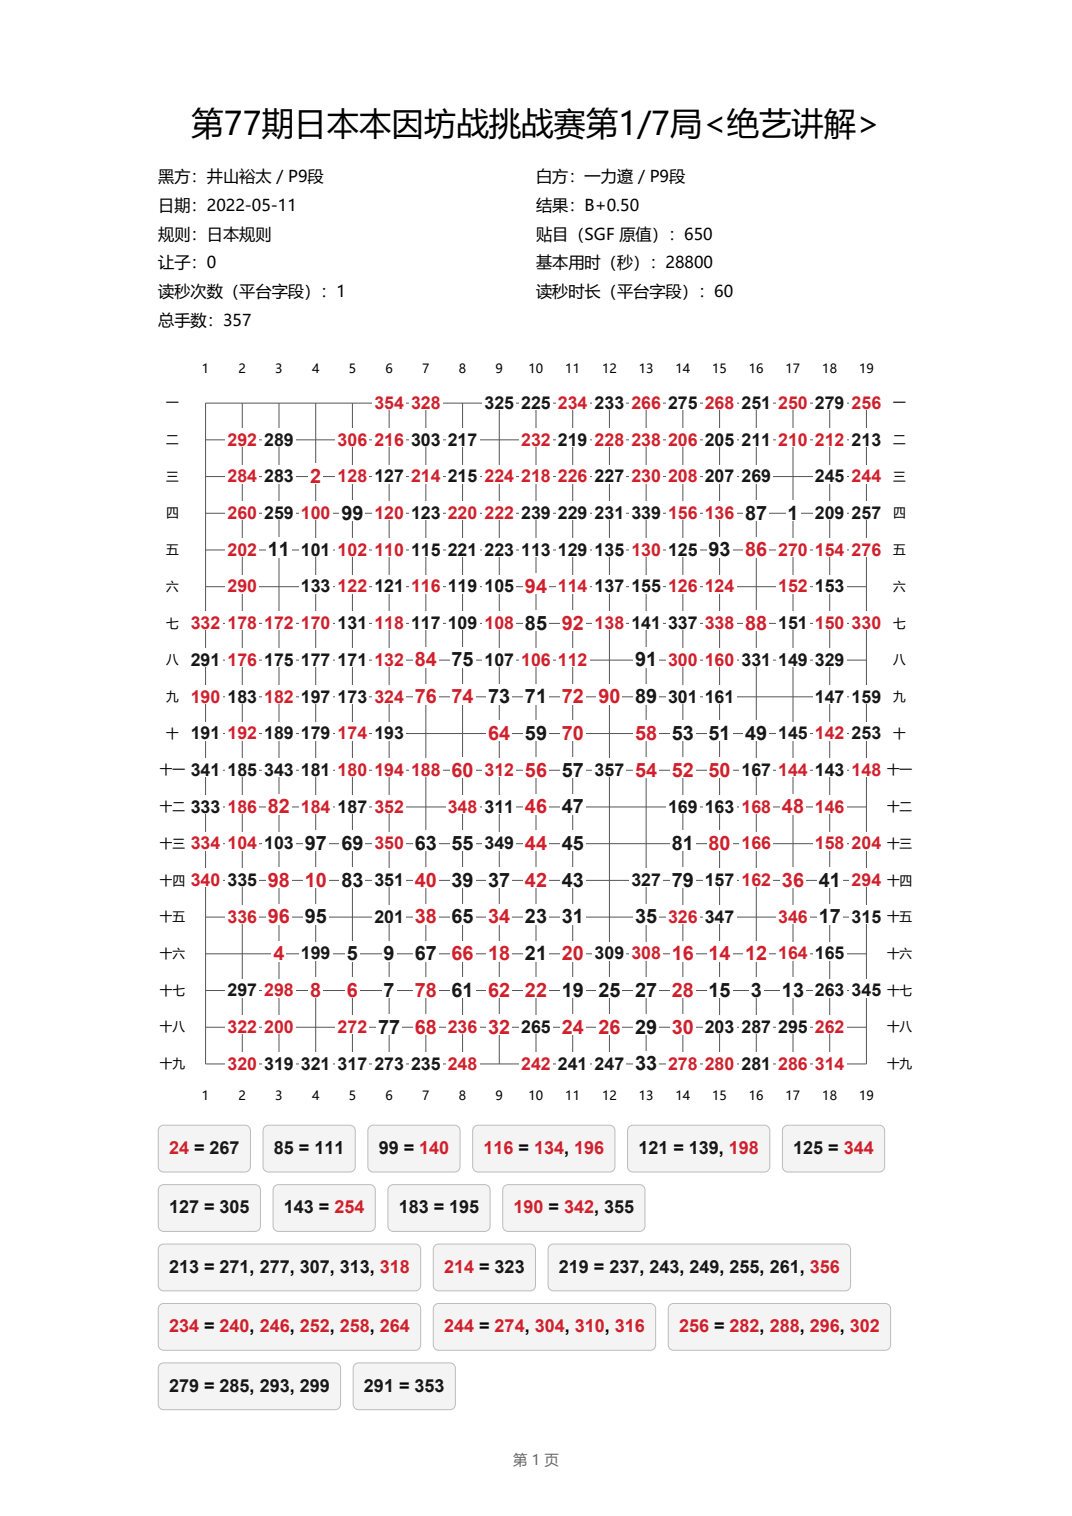
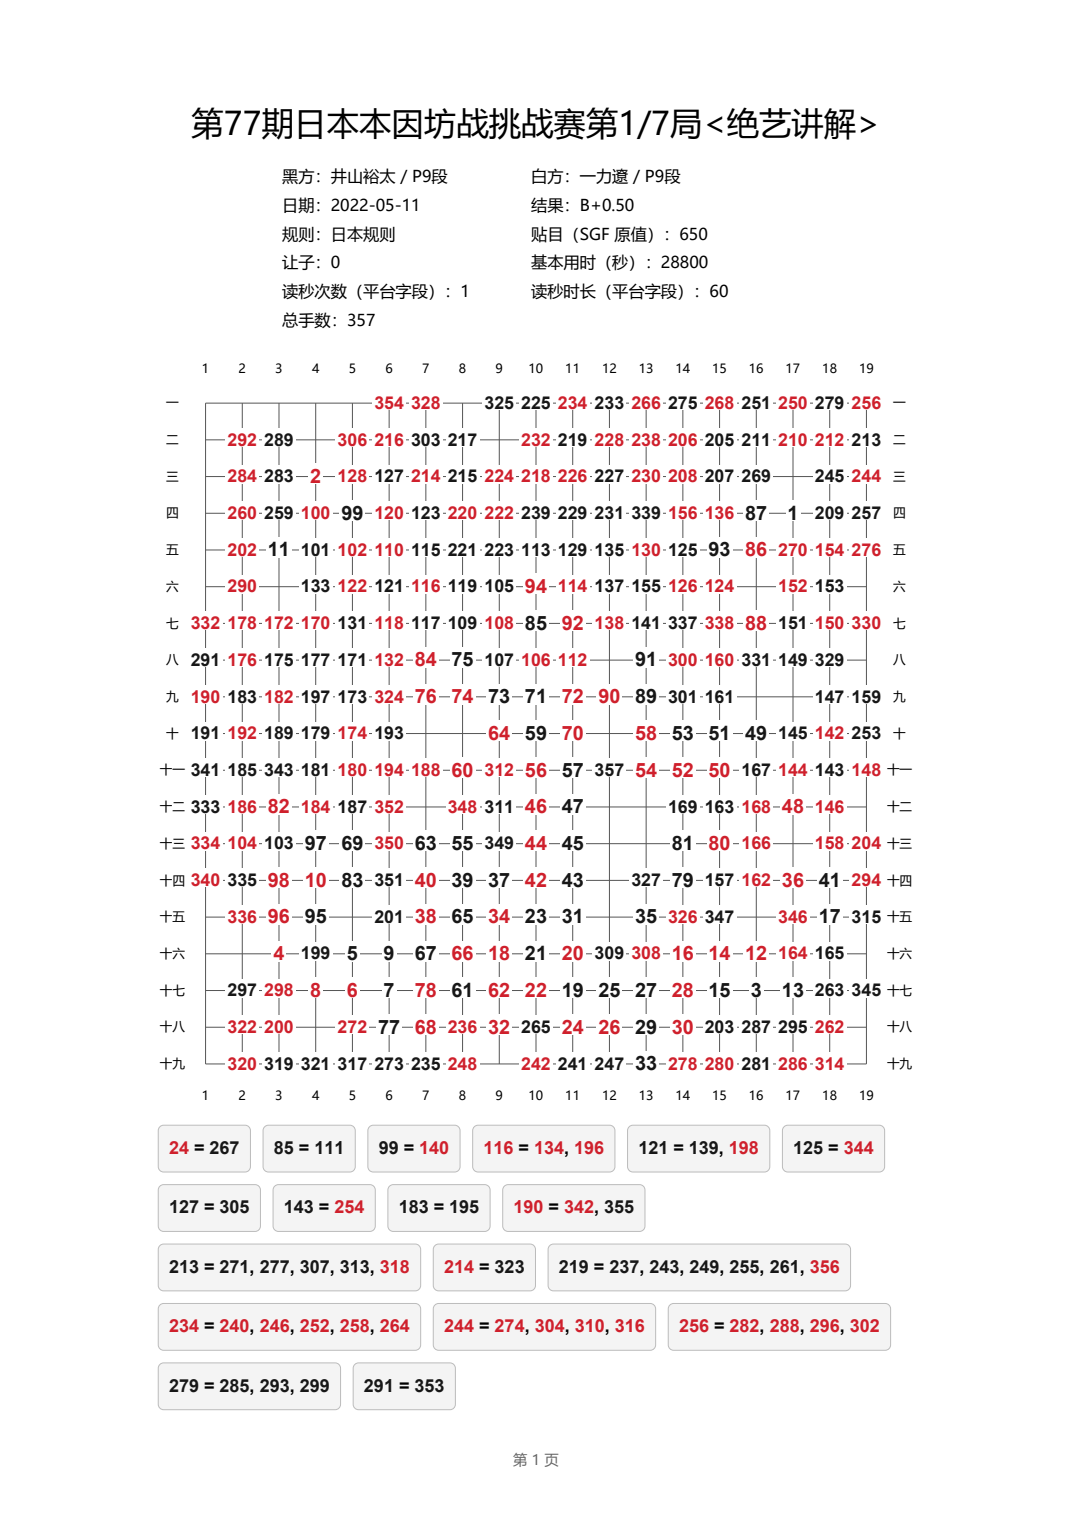
Center game information and update preview

Changed region(s): [[0.1539, 0.093, 0.431, 0.217], [0.4925, 0.093, 0.6772, 0.217]]

diff --git a/sgf_to_pdf.py b/sgf_to_pdf.py
@@ -89,7 +89,7 @@ class SGFParser:
 
 def read_sgf(path: Path):
     data = path.read_bytes()
-    match = re.search(rb'CA\[([^\]]+)\]', data)
+    match = re.search(rb'CA\[([^]]+)]', data)
     encodings = [match.group(1).decode('ascii')] if match else ['utf-8-sig', 'gb18030']
     for encoding in encodings:
         try:
@@ -161,6 +161,7 @@ def pdf_dependencies():
 def chinese_font():
     from reportlab.pdfbase import pdfmetrics
     from reportlab.pdfbase.ttfonts import TTFont
+    # noinspection SpellCheckingInspection
     candidates = [os.environ.get('SGF_FONT', ''), 'C:/Windows/Fonts/msyh.ttc',
                   'C:/Windows/Fonts/simsun.ttc', '/usr/share/fonts/truetype/arphic/uming.ttc']
     for path in candidates:
@@ -170,7 +171,7 @@ def chinese_font():
     raise ValueError('未找到中文字体；请设置 SGF_FONT 为中文 TrueType 字体文件路径')
 
 
-def metadata(root, size, count):
+def metadata(root, count):
     result = []
     for color, name, rank, team in [('黑方', 'PB', 'BR', 'BT'), ('白方', 'PW', 'WR', 'WT')]:
         parts = [root[k][0] for k in (name, rank, team) if root.get(k, [''])[0]]
@@ -207,15 +208,19 @@ def write_pdf(tree, destination):
     font = chinese_font()
     from reportlab.pdfbase import pdfmetrics
     from reportlab.pdfbase.ttfonts import TTFont
+    # noinspection SpellCheckingInspection
     korean_path = Path('C:/Windows/Fonts/malgun.ttf')
     if korean_path.is_file():
         pdfmetrics.registerFont(TTFont('RecordKorean', str(korean_path)))
-    def rich_text(text):
-        text = escape(text).replace('\n', '<br/>').replace('\\n', '<br/>')
+    def korean_span(match: re.Match[str]) -> str:
+        return '<font name="RecordKorean">' + match.group(0) + '</font>'
+
+    def rich_text(text: str) -> str:
+        escaped_text: str = str(escape(text)).replace('\n', '<br/>').replace('\\n', '<br/>')
         if korean_path.is_file():
-            text = re.sub(r'[\u1100-\u11ff\u3130-\u318f\uac00-\ud7af]+',
-                          lambda m: '<font name="RecordKorean">' + m[0] + '</font>', text)
-        return text
+            escaped_text = re.sub(r'[\u1100-\u11ff\u3130-\u318f\uac00-\ud7af]+',
+                                  korean_span, escaped_text)
+        return escaped_text
     red = '#cf202c'
     style = ParagraphStyle('info', fontName=font, fontSize=9, leading=13,
                            wordWrap='CJK', spaceAfter=2)
@@ -274,8 +279,8 @@ def write_pdf(tree, destination):
             inset = 9 * mm
             length = self.width - inset * 2
             step = length / (size - 1)
-            def xy(x, y):
-                return inset + x * step, self.height - inset - y * step
+            def xy(column_index, row_index):
+                return inset + column_index * step, self.height - inset - row_index * step
             c.setStrokeColor(colors.HexColor('#555555'))
             c.setLineWidth(0.45)
             for i in range(size):
@@ -325,11 +330,19 @@ def write_pdf(tree, destination):
                             title=root.get('GN', [''])[0], author='SGF 手记棋谱转换工具')
     title = root.get('GN', [''])[0].strip()
     story = [Paragraph(rich_text(title), title_style)] if title else []
-    info = metadata(root, size, count)
+    info = metadata(root, count)
     rows = [[paragraph(info[i]), paragraph(info[i+1]) if i+1 < len(info) else '']
             for i in range(0, len(info), 2)]
-    # 与居中棋盘的网格等宽，而不是铺满页面正文宽度。
-    table = Table(rows, colWidths=[74*mm, 74*mm], hAlign='CENTER')
+    # 按文字实际宽度居中整块信息，避免两列短文字在宽表格中显得偏左。
+    # 表格宽度独立于棋盘的单页自适应缩放，缩小棋盘后仍保持视觉居中。
+    info_widths = [
+        max(40*mm, min(68*mm, max(
+            (pdfmetrics.stringWidth(line, font, 9) for line in info[column::2]),
+            default=0) + 12*mm))
+        for column in range(2)
+    ]
+    table = Table(rows, colWidths=info_widths, hAlign='CENTER')
+    # noinspection SpellCheckingInspection
     table.setStyle(TableStyle([('VALIGN', (0, 0), (-1, -1), 'TOP'),
                               ('LEFTPADDING', (0, 0), (-1, -1), 0),
                               ('RIGHTPADDING', (0, 0), (-1, -1), 8),

diff --git a/README.md b/README.md
@@ -4,7 +4,7 @@
 
 ## 效果预览
 
-以下为 `inputs/` 中棋谱生成的单页 PDF 预览，包含对局信息、传统坐标和重复落点记录。
+以下为 `inputs/` 中棋谱生成的单页 PDF：上方为整体居中的对局信息，下方为传统坐标棋盘及分组显示的重复落点记录。
 
 ![SGF 转 PDF 效果：对局信息、红黑数字棋盘及重复落点标注](docs/images/game-record-preview.png)
 
